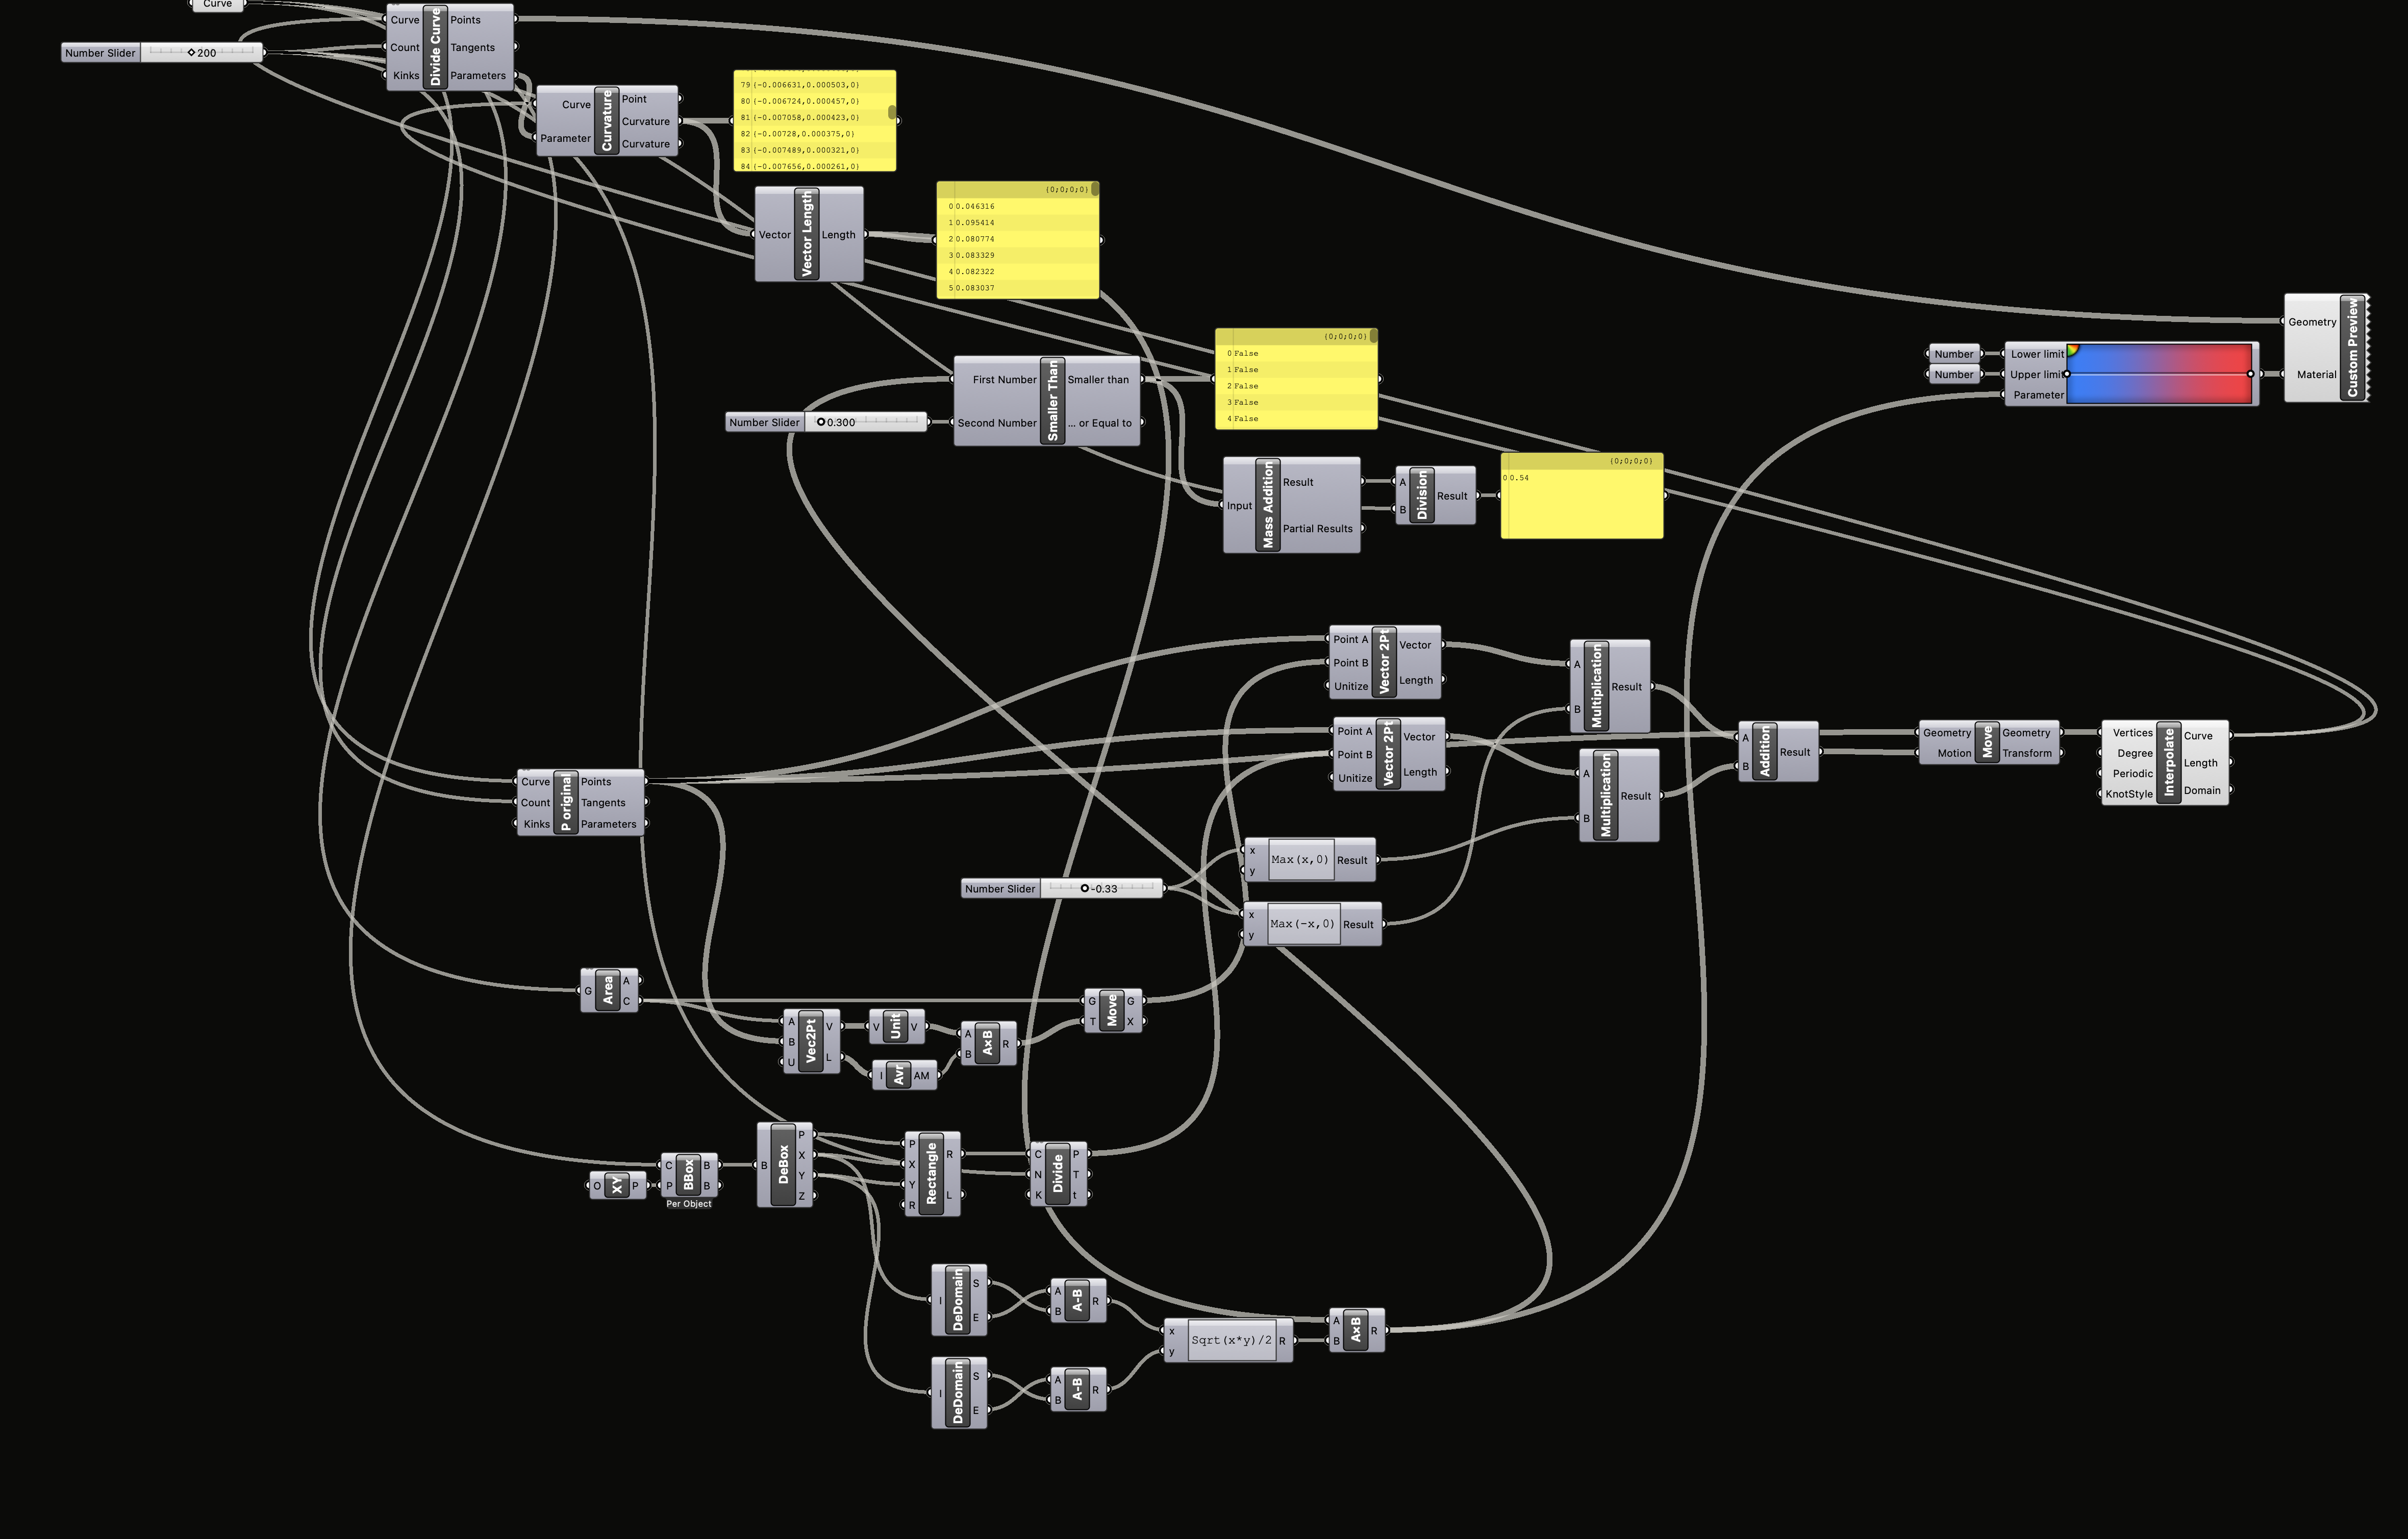
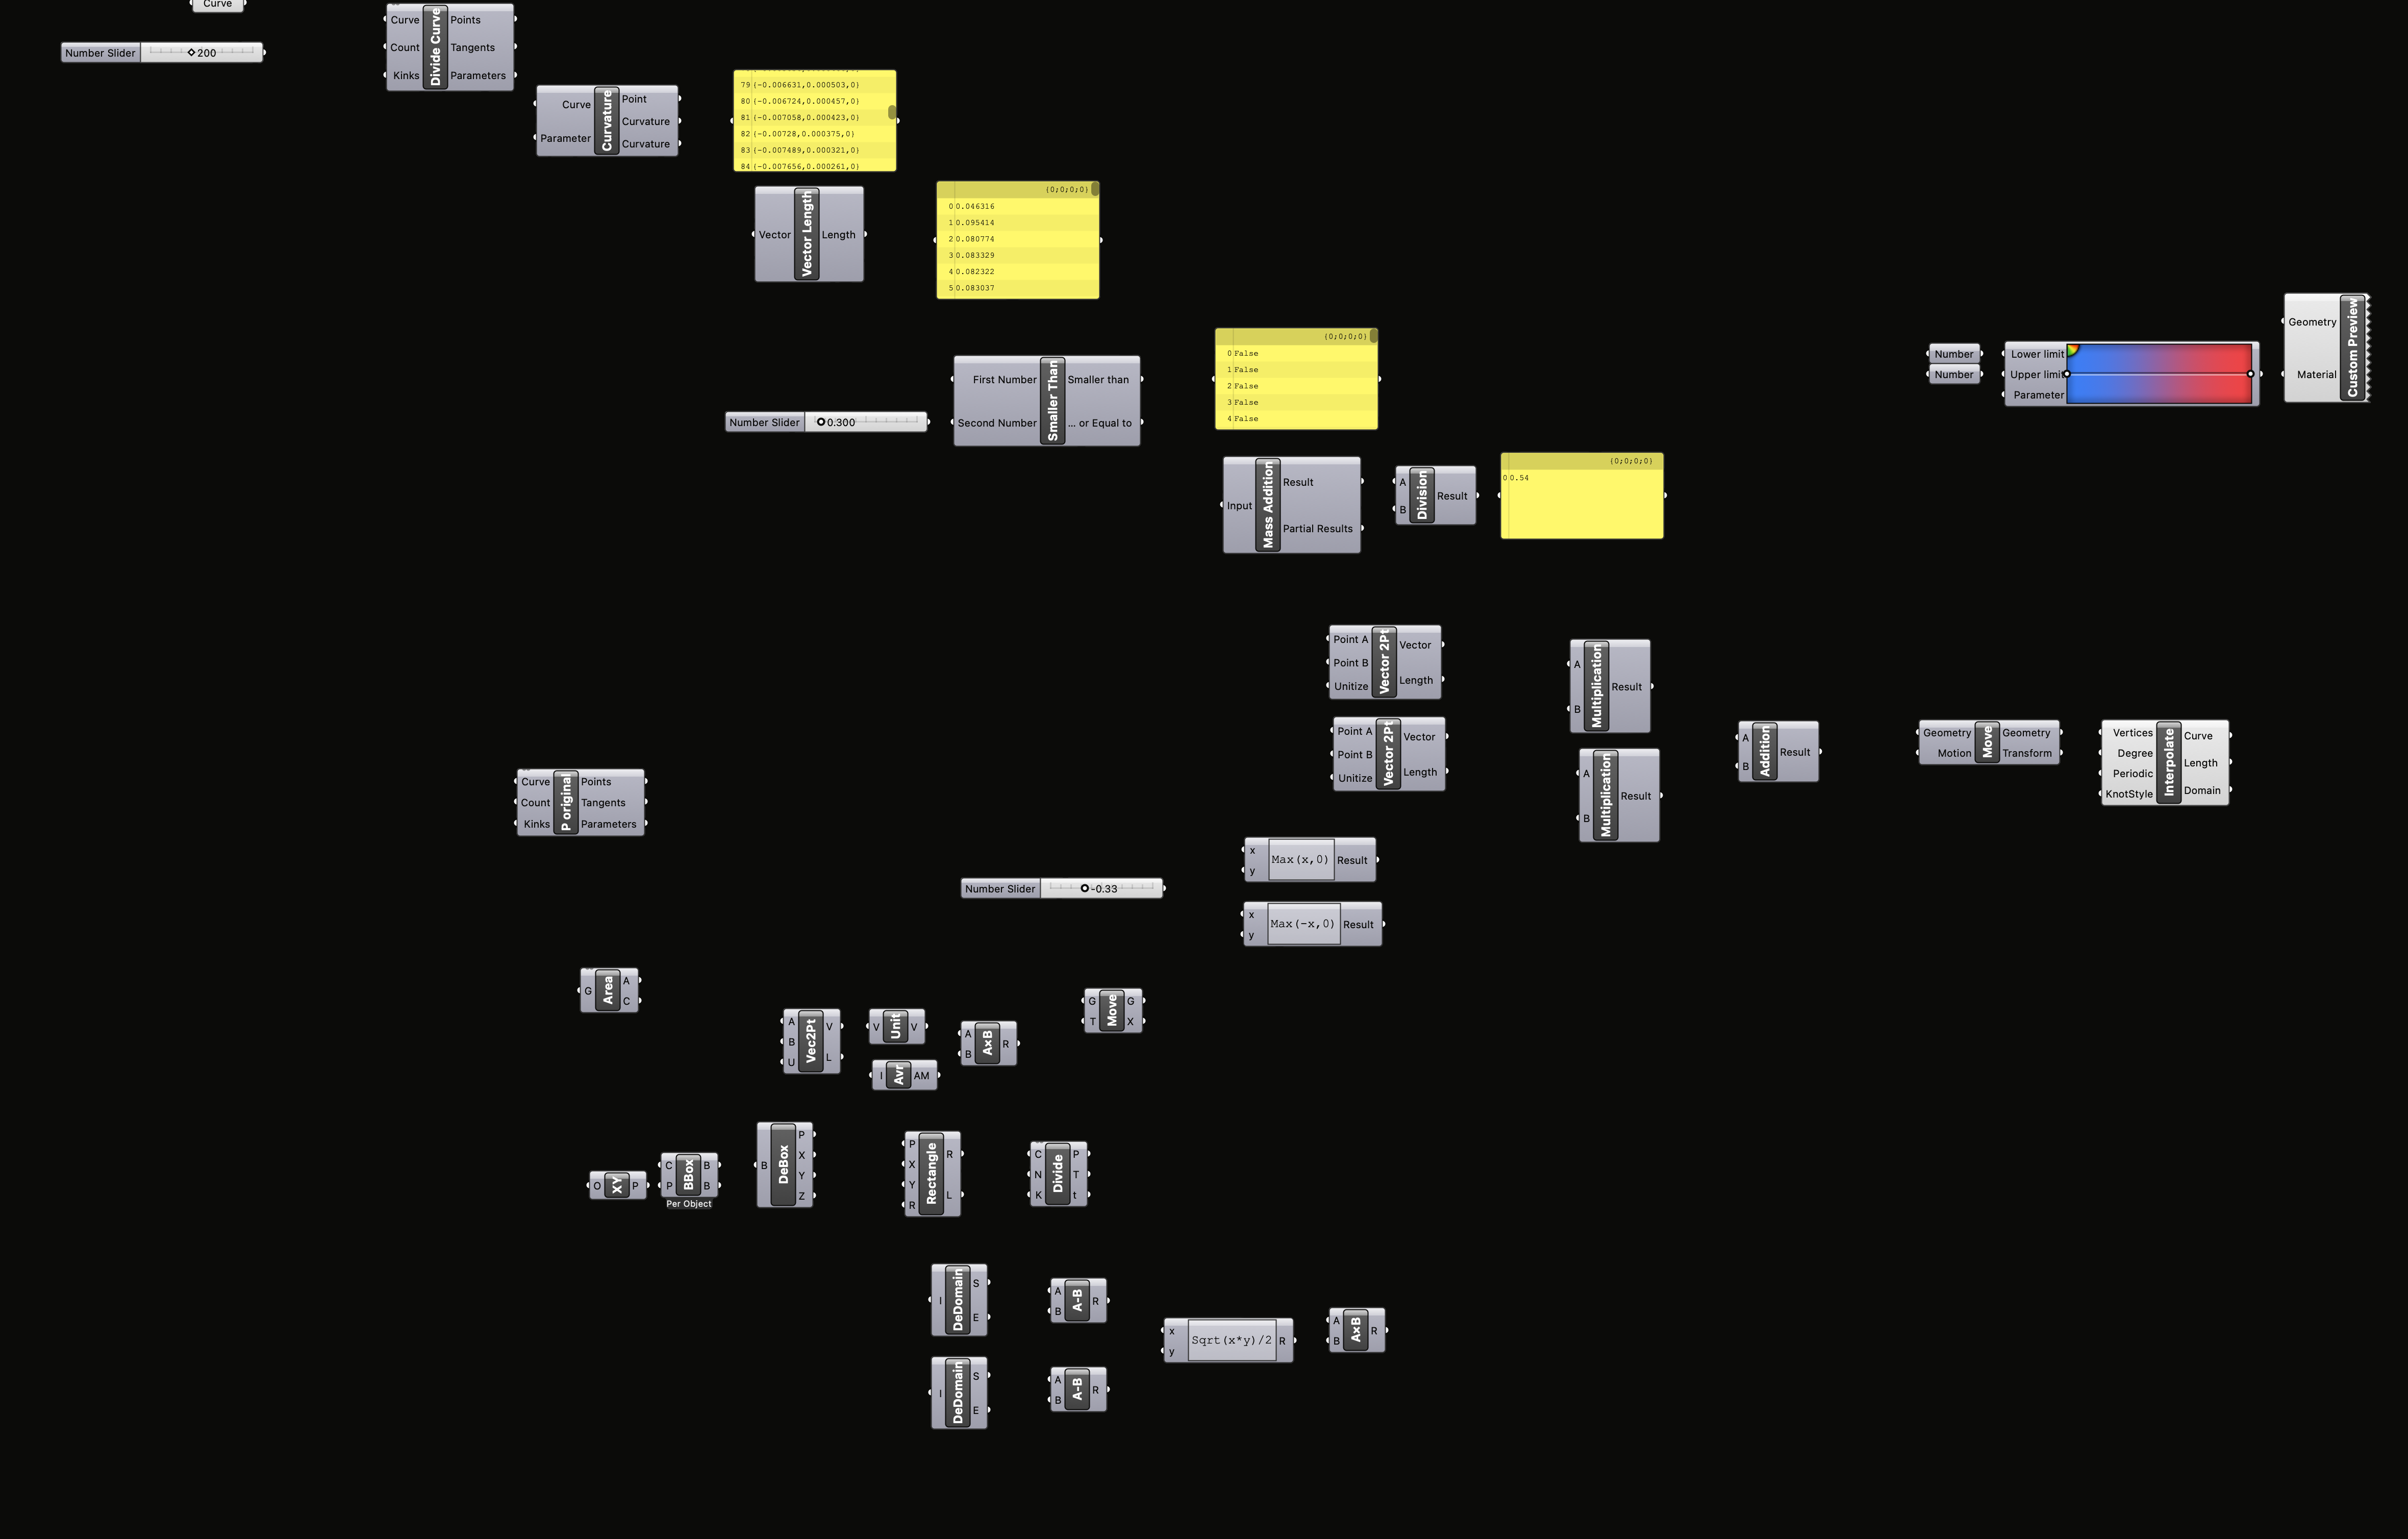
Replace Grasshopper canvas image with new definition
Swap in the updated GH screenshot, recoloured to the site background
(#0B0B09) like the previous one, and bump the cache-buster.

diff --git a/index.html b/index.html
@@ -650,7 +650,7 @@ footer{display:flex;justify-content:center;align-items:center;padding:1.35rem 2r
       </div>
     </div>
 
-    <div class="proj-visual"><img src="assets/lines-grasshopper-canvas.png?v=5" alt="Grasshopper canvas for the Straight Lines and Curves tool showing the native Rhino definition." style="width:100%;display:block;border:0.5px solid rgba(237,234,227,0.1);border-radius:4px" loading="lazy"></div>
+    <div class="proj-visual"><img src="assets/lines-grasshopper-canvas.png?v=6" alt="Grasshopper canvas for the Straight Lines and Curves tool showing the native Rhino definition." style="width:100%;display:block;border:0.5px solid rgba(237,234,227,0.1);border-radius:4px" loading="lazy"></div>
     <p class="chokusen-caption" data-en="Native Grasshopper definition for sampling a curve, measuring curvature, calculating the Linearity Index, and previewing the output in Rhino." data-jp="曲線をサンプリングし、曲率を測定し、直線度指数を計算してRhino上で出力をプレビューするGrasshopper定義。">Native Grasshopper definition for sampling a curve, measuring curvature, calculating the Linearity Index, and previewing the output in Rhino.</p>
 
     <p class="proj-section-label" data-en="Justifying the Threshold" data-jp="しきい値の妥当性">Justifying the Threshold</p>